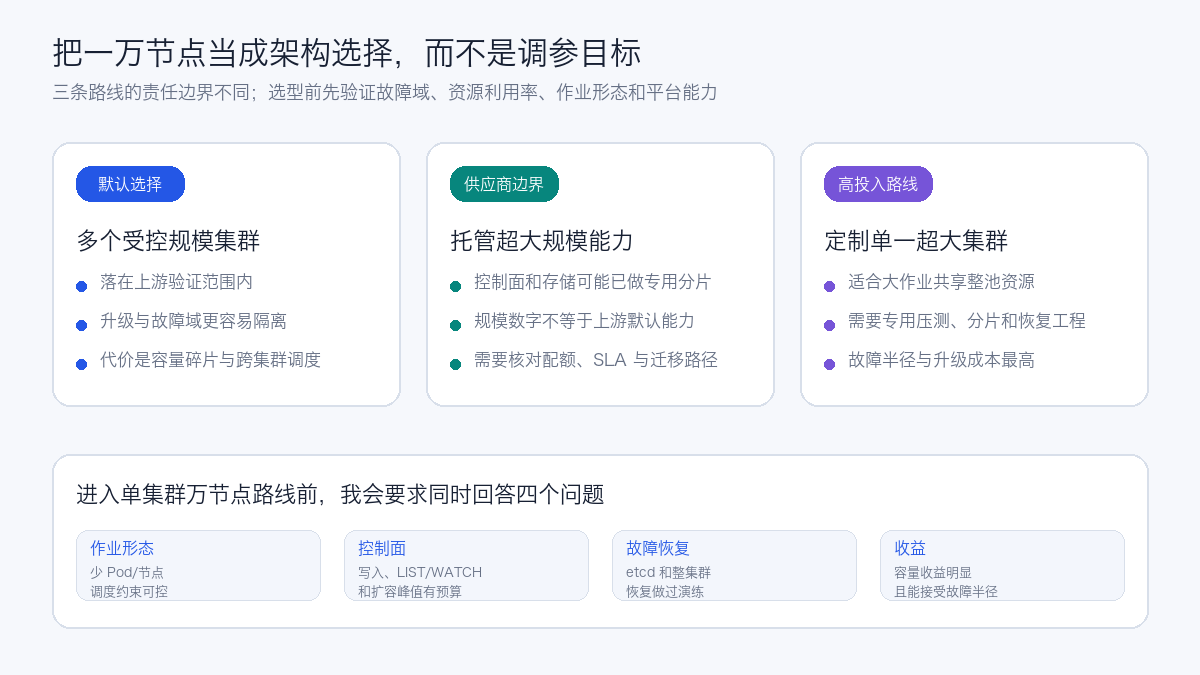
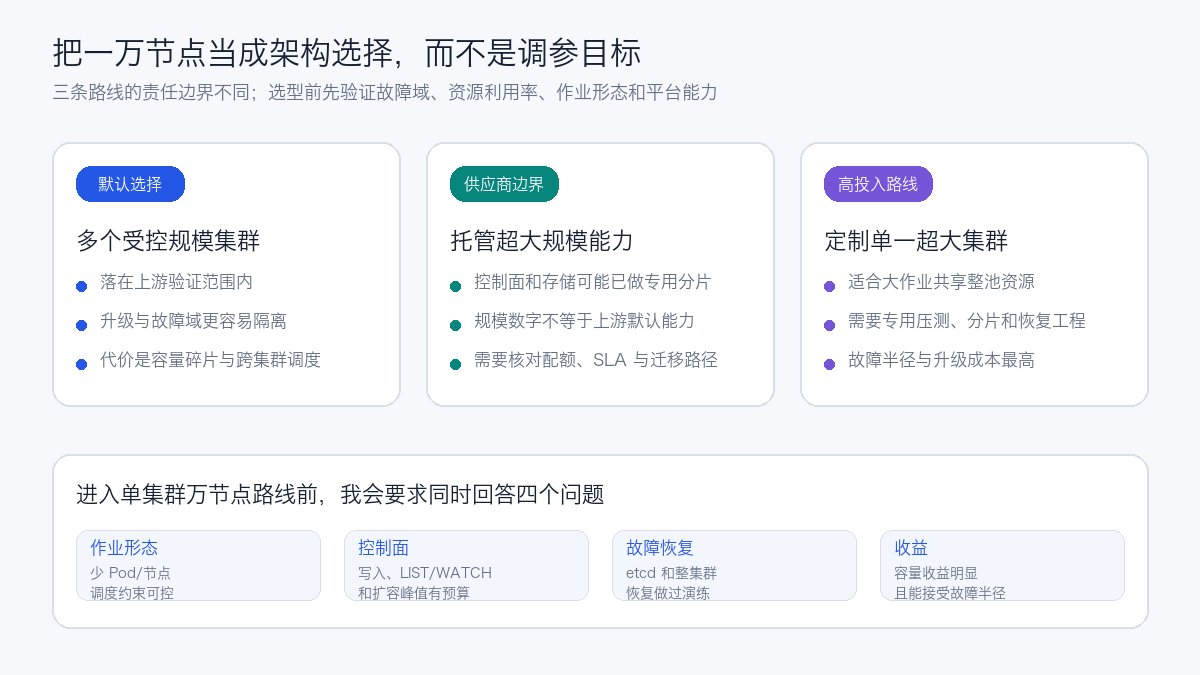
docs: deepen large cluster production practices

diff --git a/scripts/generate_large_scale_kubernetes_optimization_assets.py b/scripts/generate_large_scale_kubernetes_optimization_assets.py
@@ -54,6 +54,22 @@ def arrow(draw, start, end, color=MUTED, width=4):
     draw.polygon(points, fill=color)
 
 
+def edge_label(draw, center, value, color=MUTED):
+    """Place a compact label over an edge without colliding with the line."""
+    cx, cy = center
+    bbox = draw.textbbox((0, 0), value, font=font(13, True))
+    tw = bbox[2] - bbox[0]
+    dbox = (cx - tw / 2 - 8, cy - 12, cx + tw / 2 + 8, cy + 12)
+    draw.rounded_rectangle(dbox, 9, fill=BG)
+    text(draw, (cx, cy), value, 13, color, True, "mm")
+
+
+def double_arrow(draw, start, end, color=MUTED, width=4):
+    """Draw a bidirectional edge for request/response or watch flows."""
+    arrow(draw, start, end, color=color, width=width)
+    arrow(draw, end, start, color=color, width=width)
+
+
 def canvas(title, subtitle):
     img = Image.new("RGB", (W, H), BG)
     draw = ImageDraw.Draw(img)
@@ -96,12 +112,17 @@ def pressure_model():
         "写放大、碎片与慢 Range 会累积",
         "增加成员不能增加写入容量",
     ], TEAL)
-    arrow(d, (330, 226), (446, 226))
-    arrow(d, (742, 226), (858, 226))
-    arrow(d, (600, 318), (600, 376))
-    arrow(d, (858, 279), (754, 424), color=ORANGE)
+    # Nodes and controllers only interact with etcd through kube-apiserver.
+    double_arrow(d, (330, 240), (446, 240), color=BLUE)
+    edge_label(d, (388, 210), "心跳 / Watch", BLUE)
+
+    double_arrow(d, (754, 240), (858, 240), color=ORANGE)
+    edge_label(d, (806, 210), "请求 / Watch", ORANGE)
+
+    double_arrow(d, (600, 318), (600, 376), color=TEAL)
+    edge_label(d, (666, 347), "读写 / 结果", TEAL)
     rounded(d, (52, 580, 1148, 640), fill="#EAF0FF", outline="#C7D5FF")
-    text(d, (600, 610), "容量模型 = 对象数量 × 变更频率 × Watch 扇出 × 单次请求成本 × 峰值系数", 23, BLUE, True, "mm")
+    text(d, (600, 610), "控制面压力 ≈ 对象数量 × 变更频率 × Watch 扇出 × 单次请求成本 × 峰值系数", 23, BLUE, True, "mm")
     img.save(OUT / "control-plane-pressure.png", quality=95)
 
 
@@ -146,9 +167,9 @@ def choice_model():
     for i, (name, detail1, detail2) in enumerate(gates):
         x = 76 + i * 268
         d.rounded_rectangle((x, 530, x + 244, 600), 12, fill="#F3F6FC", outline=LINE)
-        text(d, (x + 14, 541), name, 16, BLUE, True)
-        text(d, (x + 14, 565), detail1, 13, MUTED)
-        text(d, (x + 14, 584), detail2, 13, MUTED)
+        text(d, (x + 14, 540), name, 17, BLUE, True)
+        text(d, (x + 14, 565), detail1, 14, MUTED)
+        text(d, (x + 14, 585), detail2, 14, MUTED)
     img.save(OUT / "ten-thousand-node-choice.png", quality=95)
 
 
